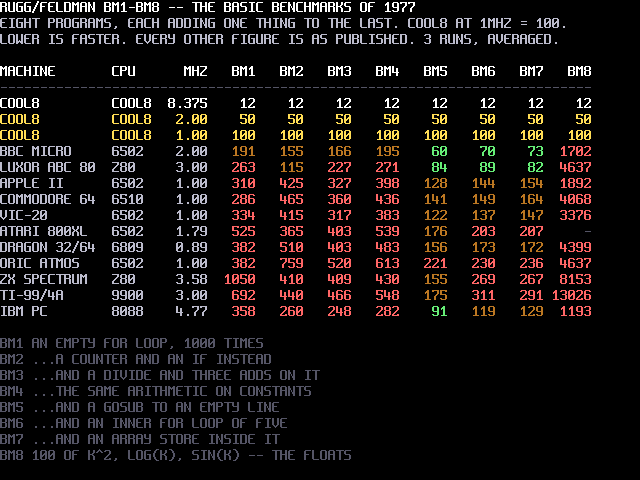
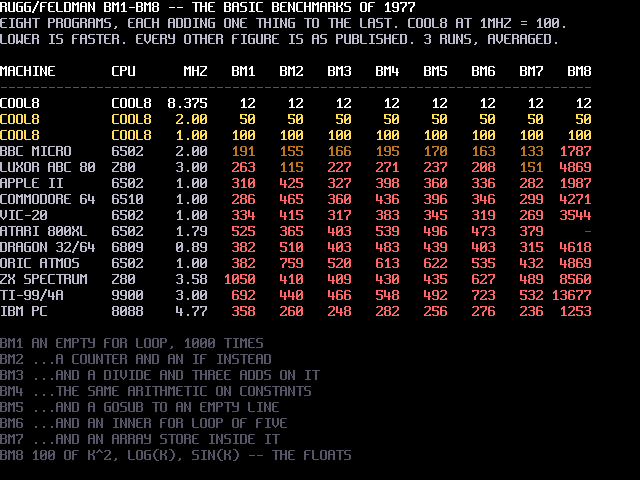
A second memo slot: 2.6x on BM5-BM7, and 48 bytes off FREE
prg_find remembered one line. The inner loop of BM5-BM7 is `GOSUB 2`
then `GOTO <head>` -- two targets at opposite ends of the program --
so the two evicted each other on every pass and a one-slot memo did
not merely fail to help: it paid for a check that never hit and then
walked from PROGBOT anyway.

Isolated, that loop is 104 frames; the same loop with the GOSUB removed
is 31. So the call was costing 73 frames, of which the call itself was
8 and the other 65 were the eviction making every GOTO re-walk ~60
records. With a second slot the loop is 39.

In the demo's table, where COOL8 is pinned at 100 and every other row
rises as it gets faster, the C64 columns go 141 -> 360 on BM5, 149 ->
346 on BM6, 164 -> 299 on BM7. BM1-BM4 came back byte-identical, which
is the control that says nothing else moved. Those three were COOL8's
weakest columns against a machine it beat 360 and 436 on the pure
arithmetic loops; the three that call a subroutine scoring worst was a
signature, not a coincidence.

Two slots is the number the shape needs, checked rather than assumed:
h_gosub ends `JMP goton`, the same prg_find call GOTO makes, while
h_next and h_return do not touch it. There is no third target in that
loop and a third slot would be dead weight.

Only the cheap half is duplicated. At most one slot can match a line
number, so the verification -- a prg_no and a 16-bit compare, which is
what makes the memo safe across an edit without clearing it from six
[…]

diff --git a/sim/bench_bm.py b/sim/bench_bm.py
@@ -22,11 +22,22 @@ system clock.
 
 ## The adaptations, and why each one is fair
 
-**GOSUB/RETURN becomes CALL/SUB.** COOL8 has no GOSUB; a SUB is found
-once at RUN rather than searched for per call, which is BBC BASIC's
-arrangement and faster than Microsoft's line-number scan. BM5 exists
-to price a subroutine call, and it still does -- but against a machine
-that resolves the target earlier than the ones in the table.
+**GOSUB/RETURN becomes CALL/SUB.** A SUB is found once at RUN rather
+than searched for per call, which is BBC BASIC's arrangement and faster
+than Microsoft's line-number scan. BM5 exists to price a subroutine
+call, and it still does -- but against a machine that resolves the
+target earlier than the ones in the table.
+
+**This said "COOL8 has no GOSUB", and that stopped being true.** GOSUB
+exists now and resolves its target through `prg_find` exactly as the
+Microsoft BASICs in the table do, so the adaptation is a *choice* now
+rather than a necessity, and the table above prices the CALL path only.
+`demos/bench.bas` is the other side of it: it uses real GOSUB, and the
+two-slot memo that bought 2.74x there moved nothing here, because
+nothing here goes through `prg_find` per call. Kept as CALL so the
+published table stays comparable with its own history; switching it
+would be a fair change, but it is a different measurement, not a
+correction to this one.
 
 **LET is gone**, so `510 LET A=...` is `510 A=...`. No semantic change:
 LET was always optional and costs a token nobody needs.

diff --git a/sim/test_interp.py b/sim/test_interp.py
@@ -671,6 +671,26 @@ CASES = [
              line(99, [K["END"]])),
      {0: 41, 1: 7}),
 
+    # **Two `prg_find` targets alternating, which is what the memo's
+    # second slot exists for.** `GOSUB 60` and `GOTO 20` resolve at
+    # opposite ends of the program, and with one slot they evicted each
+    # other on every pass -- correct but walking from `PROGBOT` each
+    # time, which is most of what BM5-BM7 were measuring. A *wrong*
+    # second slot would be worse than slow: it would hand back a stale
+    # address and this sum would not be 15. Five passes, so both slots
+    # are live and both are being hit rather than filled.
+    ("GOSUB and GOTO alternating both stay resolved",
+     program(spaced(10, name("A"), "=", num(0)),
+             spaced(20, name("A"), "=", name("A"), "+", num(1)),
+             spaced(30, [K["GOSUB"]], num(60)),
+             spaced(40, [K["IF"]], name("A"), "<", num(5), [K["THEN"]],
+                    [K["GOTO"]], num(20)),
+             spaced(50, [K["GOTO"]], num(99)),
+             spaced(60, name("B"), "=", name("B"), "+", name("A")),
+             spaced(70, [K["RETURN"]]),
+             line(99, [K["END"]])),
+     {0: 5, 1: 15}),
+
     # A SUB defined *before* the code that calls it must be stepped over
     # rather than fallen into, and it spans records now.
     ("a SUB in the way is stepped over, not fallen into",

diff --git a/docs/14-demos.md b/docs/14-demos.md
@@ -174,11 +174,28 @@ baseline is COOL8 scaled to 1 MHz and every column is a ratio against
 it, in whole numbers. `CPU` and `MHZ` are their own columns, because the
 clock is most of the answer and burying it in the name hides that.
 
-**The result is not flattering and that is the point.** Against a C64 at
-the same clock, COOL8 is far ahead on the arithmetic loops (BM3 168 to
-its 185, BM1 310 to its 100) and then **loses BM5–BM7 outright** — 54,
-72, 92 against 100. That is `GOSUB` and arrays, and it is where to look
-if the interpreter is ever worth optimising.
+**BM5–BM7 used to be the weak columns, and the benchmark is what found
+out why.** Against a C64 they sat at 141, 149 and 164 while the pure
+arithmetic loops were at 360 and 436 — the three that call a subroutine
+scoring worst is not a coincidence, it is a signature. The cause was
+`prg_find`'s memo having one slot: the inner loop is `GOSUB 2` then
+`GOTO <head>`, two targets at opposite ends of the program, so they
+evicted each other every pass and every jump walked from `PROGBOT`
+again. A second slot ([`sw/prog.asm`](../sw/prog.asm)) cost 48 bytes and
+bought **2.6× on BM5, 2.3× on BM6, 1.8× on BM7**; the C64 columns are
+now 360, 346 and 299, in line with the rest. **BM1–BM4 came back
+byte-identical**, which is the control that says nothing else moved.
+
+**One significant figure on these, because the demo is timed in
+frames.** Three runs are averaged against a 16.7 ms tick, and two
+consecutive builds of the same binary gave BM5 as 360 and 386 — about
+7 % apart. The isolated measurement below is the tighter one, and the
+`poe bench` table in [13-basic.md](13-basic.md) is tighter still because
+it counts cycles rather than frames.
+
+Isolated, the loop is 104 frames against 31 for the same loop with the
+`GOSUB` removed; after the second slot it is 39. The call itself was
+never expensive — 8 frames — and the other 65 were the eviction.
 
 **`4.1875` does not survive the parser** — five significant digits
 against a float that carries about four, and the whole row came out
